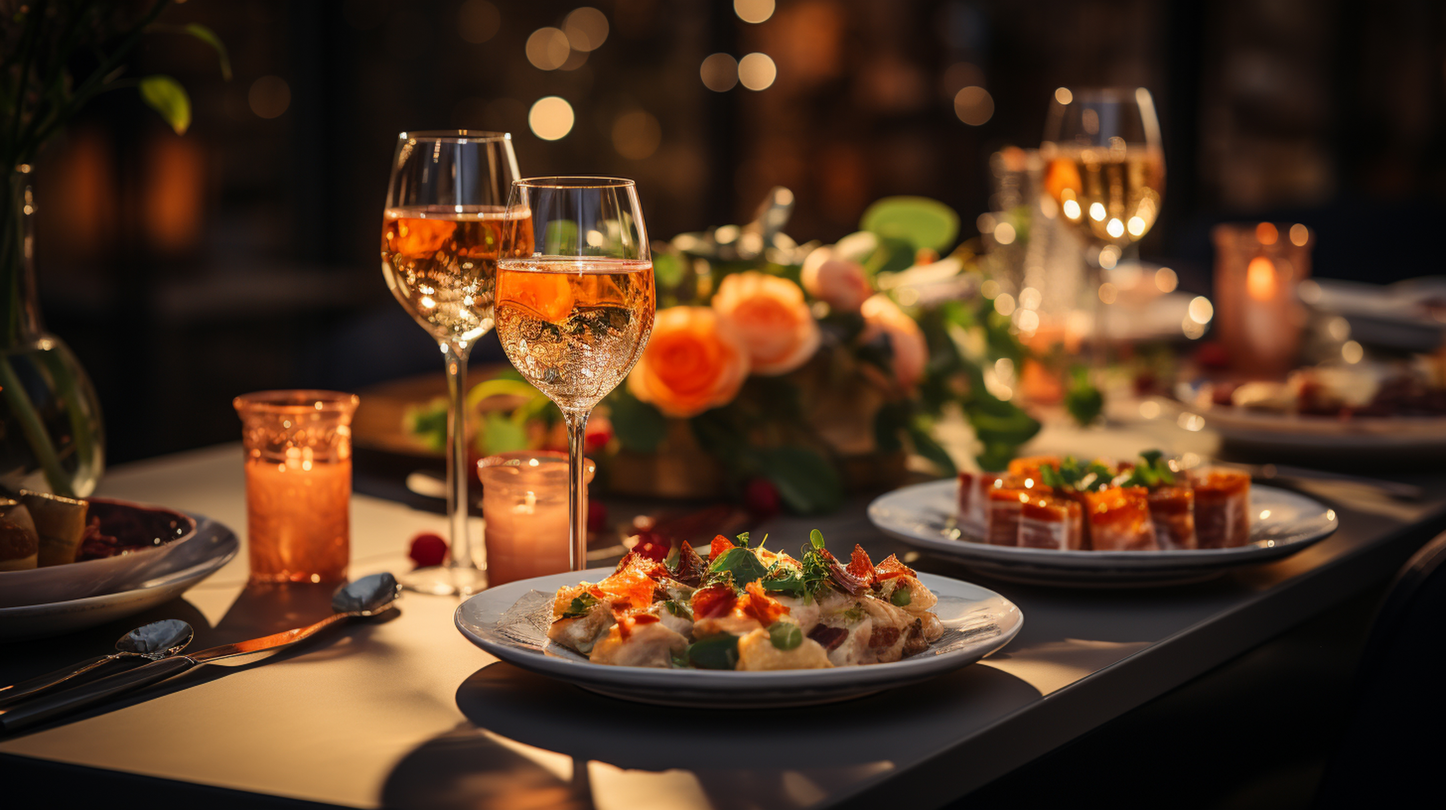
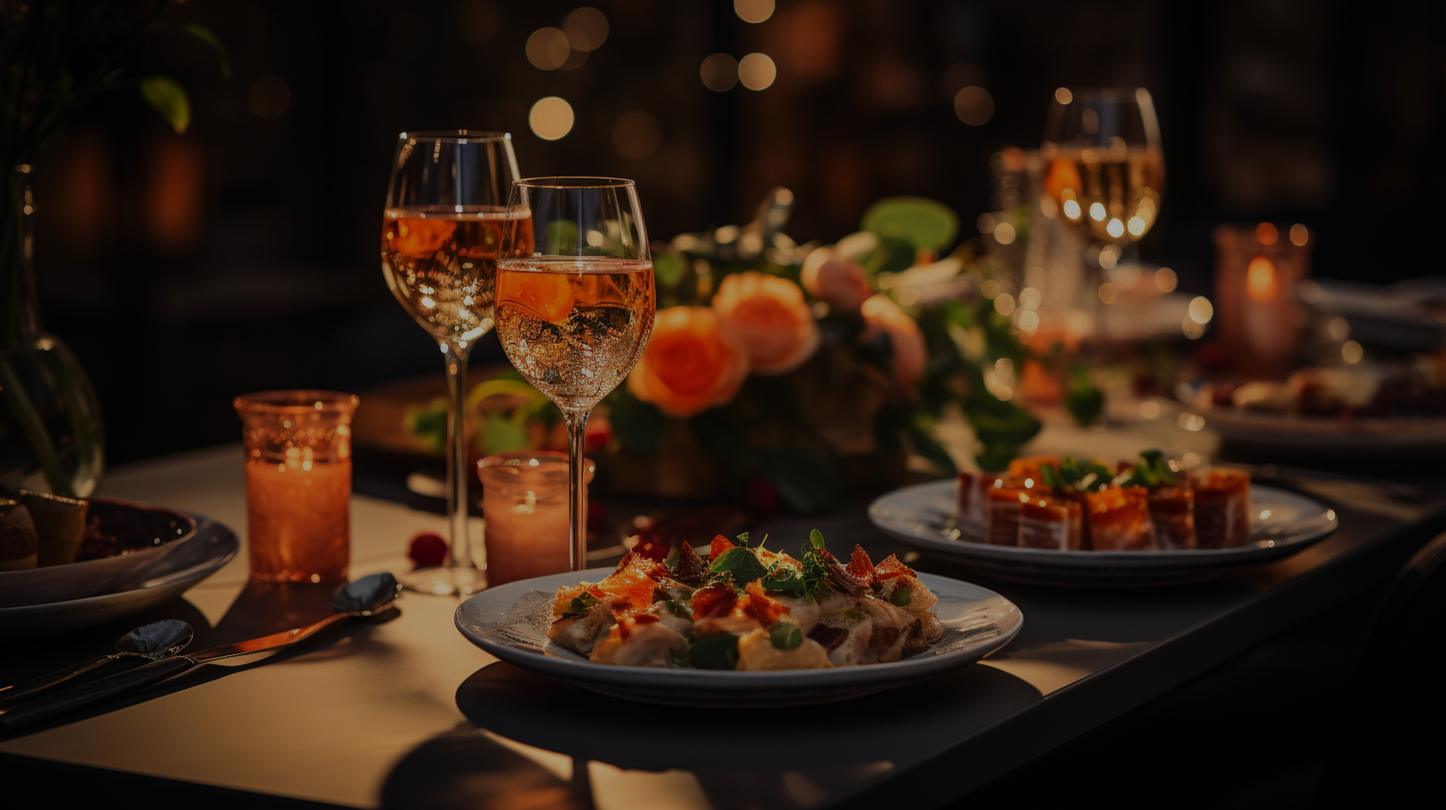
update

diff --git a/fronted/css/payment.css b/fronted/css/payment.css
@@ -43,7 +43,7 @@ body {
     min-height: 50%;
 }
 .image-section img {
-    max-width: 120%;   /* shrink image size */
+    max-width: 100%;   /* shrink image size */
     border-radius: 15px;
 }
 @media (max-width: 768px) {

diff --git a/src/main/java/lk/ijse/gdse/restaurentspringbootbackend/controller/AuthController.java b/src/main/java/lk/ijse/gdse/restaurentspringbootbackend/controller/AuthController.java
@@ -1,5 +1,6 @@
 package lk.ijse.gdse.restaurentspringbootbackend.controller;
 
+import jakarta.validation.Valid;
 import lk.ijse.gdse.restaurentspringbootbackend.dto.ApiResponseDto;
 import lk.ijse.gdse.restaurentspringbootbackend.dto.AuthDto;
 import lk.ijse.gdse.restaurentspringbootbackend.dto.AuthResponseDto;
@@ -10,8 +11,10 @@ import org.springframework.http.HttpStatus;
 import org.springframework.http.ResponseCookie;
 import org.springframework.http.ResponseEntity;
 import org.springframework.security.authentication.BadCredentialsException;
+import org.springframework.validation.BindingResult;
 import org.springframework.web.bind.annotation.*;
 
+import java.util.HashMap;
 import java.util.Map;
 
 @RestController
@@ -23,7 +26,20 @@ public class AuthController {
 
     @PostMapping("/register")
     public ResponseEntity<ApiResponseDto> registerUser(
-            @RequestBody RegisterDto registerDTO) {
+            @Valid @RequestBody RegisterDto registerDTO , BindingResult bindingResult) {
+        if (bindingResult.hasErrors()) {
+            Map<String, String> errors = new HashMap<>();
+            bindingResult.getFieldErrors().forEach(error ->
+                    errors.put(error.getField(), error.getDefaultMessage()));
+
+            return ResponseEntity.badRequest().body(
+                    new ApiResponseDto(
+                            400,
+                            "Validation Failed",
+                            errors
+                    )
+            );
+        }
         return ResponseEntity.ok(
                 new ApiResponseDto(
                         200,
@@ -41,10 +57,10 @@ public class AuthController {
             String token = auth.getAccessToken();
 
             ResponseCookie jwtCookie = ResponseCookie.from("jwt", token)
-                    .httpOnly(true)              // JS access karanna ba
-                    .secure(false)               // dev walata false, prod walata true
-                    .path("/")                   // api okkoma path walata valid
-                    .maxAge(24 * 60 * 60)        // 1 day
+                    .httpOnly(true)
+                    .secure(false)
+                    .path("/")
+                    .maxAge(24 * 60 * 60)
                     .sameSite("Strict")
                     .build();
 

diff --git a/src/main/java/lk/ijse/gdse/restaurentspringbootbackend/dto/RegisterDto.java b/src/main/java/lk/ijse/gdse/restaurentspringbootbackend/dto/RegisterDto.java
@@ -1,5 +1,8 @@
 package lk.ijse.gdse.restaurentspringbootbackend.dto;
 
+import jakarta.validation.constraints.Email;
+import jakarta.validation.constraints.NotBlank;
+import jakarta.validation.constraints.Size;
 import lombok.AllArgsConstructor;
 import lombok.Getter;
 import lombok.NoArgsConstructor;
@@ -10,8 +13,14 @@ import lombok.Setter;
 @NoArgsConstructor
 @AllArgsConstructor
 public class RegisterDto {
+    @NotBlank(message = "Username is required")
     private String username;
+    @Size(min = 6, message = "Password must be at least 6 characters long")
     private String password;
+
+    @Email(message = "Invalid email address")
+    @NotBlank(message = "Email is required")
     private String email;
+    @NotBlank(message = "Role is required")
     private String role;
 }
